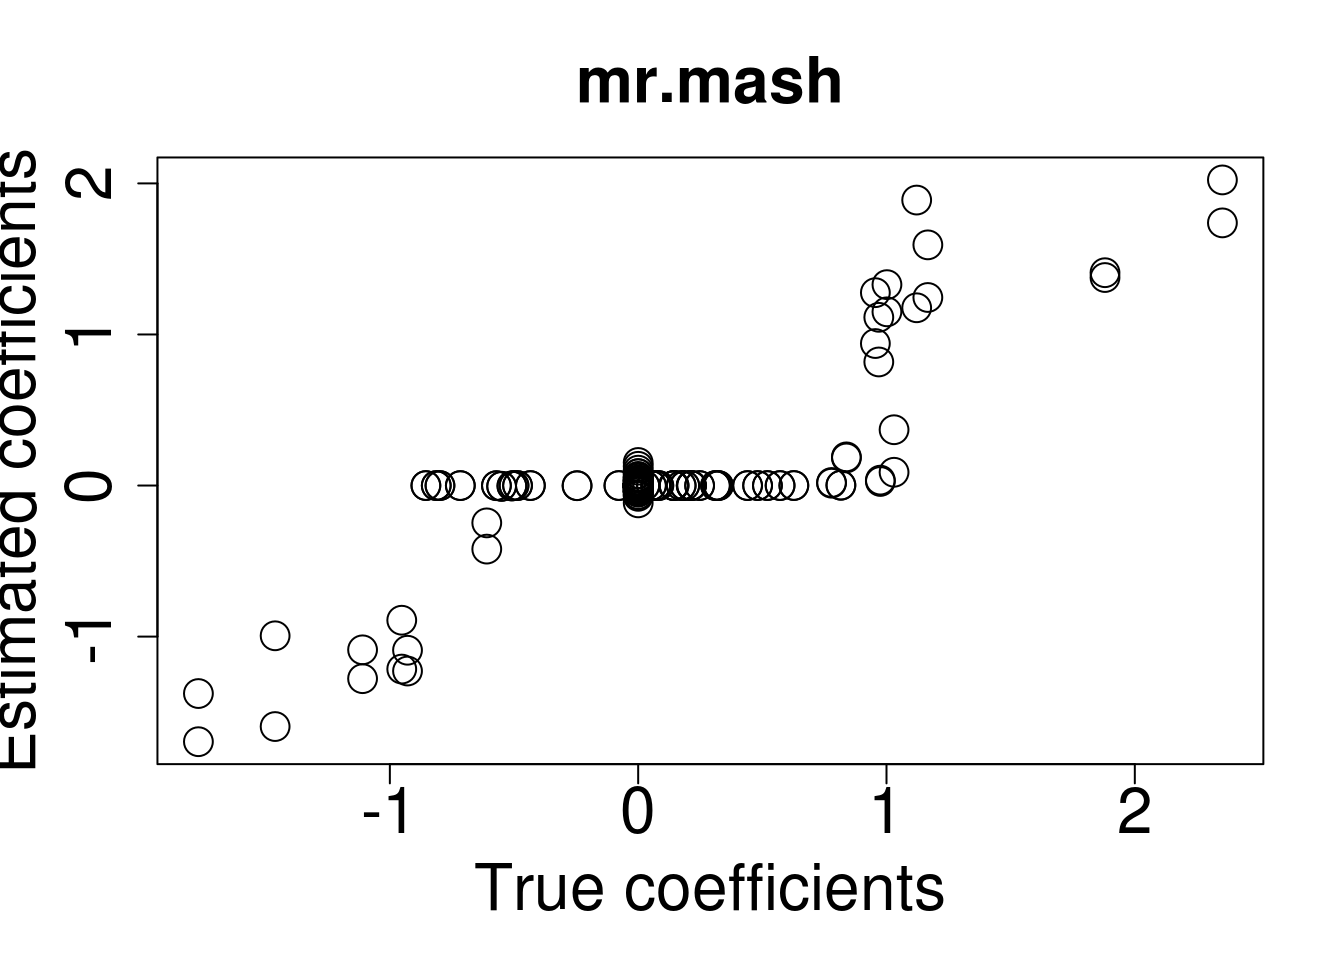
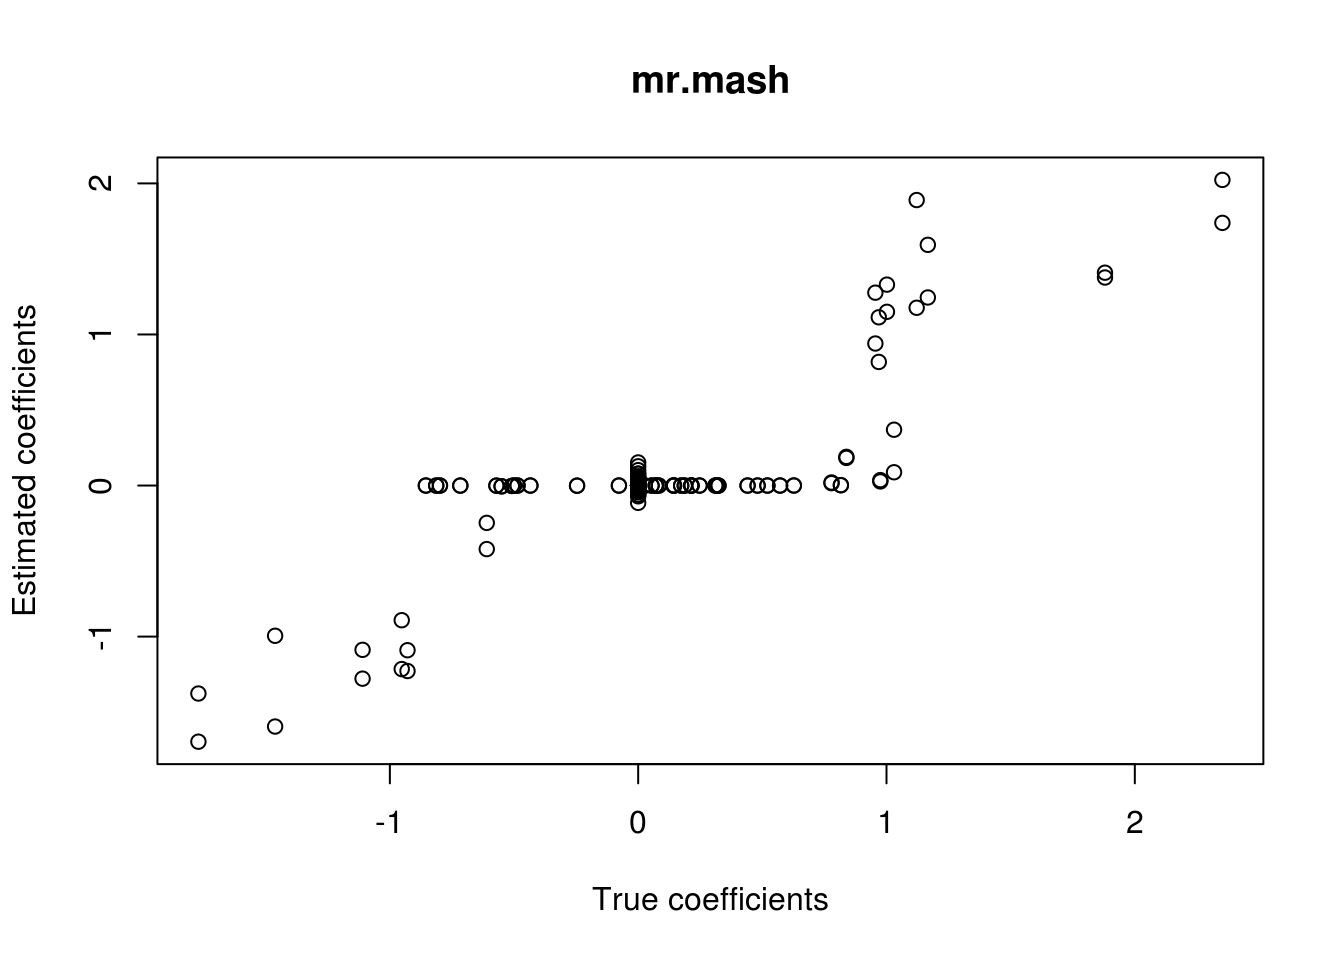
Build site.

diff --git a/docs/two_active_responses_issue.html b/docs/two_active_responses_issue.html
@@ -355,16 +355,16 @@ This reproducible <a href="http://rmarkdown.rstudio.com">R Markdown</a> analysis
 <div class="panel panel-default">
 <div class="panel-heading">
 <p class="panel-title">
-<a data-toggle="collapse" data-parent="#workflowr-checks" href="#strongRepositoryversionstrongahrefhttpsgithubcomfmorgantemrmashtesttree738798c5b85a0ae160ac5c6106e989c5aaf98dbatargetblank738798ca"> <span class="glyphicon glyphicon-ok text-success" aria-hidden="true"></span> <strong>Repository version:</strong> <a href="https://github.com/fmorgante/mr_mash_test/tree/738798c5b85a0ae160ac5c6106e989c5aaf98dba" target="_blank">738798c</a> </a>
+<a data-toggle="collapse" data-parent="#workflowr-checks" href="#strongRepositoryversionstrongahrefhttpsgithubcomfmorgantemrmashtesttree8fde94a88c268ce441309d8c36f8934044e632d3targetblank8fde94aa"> <span class="glyphicon glyphicon-ok text-success" aria-hidden="true"></span> <strong>Repository version:</strong> <a href="https://github.com/fmorgante/mr_mash_test/tree/8fde94a88c268ce441309d8c36f8934044e632d3" target="_blank">8fde94a</a> </a>
 </p>
 </div>
[2 lines of base64/hex data omitted]
 <div class="panel-body">
 <p>
 Great! You are using Git for version control. Tracking code development and connecting the code version to the results is critical for reproducibility.
 </p>
 <p>
-The results in this page were generated with repository version <a href="https://github.com/fmorgante/mr_mash_test/tree/738798c5b85a0ae160ac5c6106e989c5aaf98dba" target="_blank">738798c</a>. See the <em>Past versions</em> tab to see a history of the changes made to the R Markdown and HTML files.
+The results in this page were generated with repository version <a href="https://github.com/fmorgante/mr_mash_test/tree/8fde94a88c268ce441309d8c36f8934044e632d3" target="_blank">8fde94a</a>. See the <em>Past versions</em> tab to see a history of the changes made to the R Markdown and HTML files.
 </p>
 <p>
 Note that you need to be careful to ensure that all relevant files for the analysis have been committed to Git prior to generating the results (you can use <code>wflow_publish</code> or <code>wflow_git_commit</code>). workflowr only checks the R Markdown file, but you know if there are other scripts or data files that it depends on. Below is the status of the Git repository when the results were generated:
@@ -431,6 +431,40 @@ Message
 </tr>
 </thead>
 <tbody>
+<tr>
+<td>
+Rmd
+</td>
+<td>
+<a href="https://github.com/fmorgante/mr_mash_test/blob/8fde94a88c268ce441309d8c36f8934044e632d3/analysis/two_active_responses_issue.Rmd" target="_blank">8fde94a</a>
+</td>
+<td>
+fmorgante
+</td>
+<td>
+2020-05-28
+</td>
+<td>
+Add more investigations
+</td>
+</tr>
+<tr>
+<td>
+html
+</td>
+<td>
+<a href="https://rawcdn.githack.com/fmorgante/mr_mash_test/2682eba3778a01d6424afba475673e6f3cafc4d8/docs/two_active_responses_issue.html" target="_blank">2682eba</a>
+</td>
+<td>
+fmorgante
+</td>
+<td>
+2020-05-28
+</td>
+<td>
+Build site.
+</td>
+</tr>
 <tr>
 <td>
 Rmd
@@ -564,7 +598,7 @@ library(glmnet)</code></pre>
 <pre><code>Loaded glmnet 2.0-16</code></pre>
 <pre class="r"><code>###Set options
 options(stringsAsFactors = FALSE)</code></pre>
-<p>Let’s simulate data with n=600, p=1,000, p_causal=50, r=5, r_causal=2, PVE=0.5, shared effects, independent predictors, and lowly correlated residuals.</p>
+<p>Let’s simulate data with n=600, p=1,000, p_causal=50, r=5, r_causal=2, PVE=0.5, shared effects, independent predictors, and lowly correlated residuals. The models will be fitted to the training data (80% of the full data).</p>
 <pre class="r"><code>###Set seed
 set.seed(123)
 
@@ -618,7 +652,7 @@ fit_mrmash &lt;- mr.mash(Xtrain, Ytrain, S0, update_w0=TRUE, update_w0_method=&q
 <pre><code>Processing the inputs... Done!
 Fitting the optimization algorithm... Done!
 Processing the outputs... Done!
-mr.mash successfully executed in 8.703947 minutes!</code></pre>
+mr.mash successfully executed in 8.694488 minutes!</code></pre>
 <p>Let’s now compare the results.</p>
 <pre class="r"><code>layout(matrix(c(1, 1, 2, 2,
                 1, 1, 2, 2,
@@ -733,7 +767,7 @@ fit_mrmash_updated &lt;- mr.mash(Xtrain, Ytrain, S0_1, update_w0=TRUE, update_w0
 <pre><code>Processing the inputs... Done!
 Fitting the optimization algorithm... Done!
 Processing the outputs... Done!
-mr.mash successfully executed in 5.42335 minutes!</code></pre>
+mr.mash successfully executed in 5.403984 minutes!</code></pre>
 <p>Let’s compare the results again.</p>
 <pre class="r"><code>layout(matrix(c(1, 1, 2, 2,
                 1, 1, 2, 2,
@@ -813,7 +847,7 @@ fmorgante
 </div>
 </div>
 <p>Now the results look much better!</p>
-<p>However, we all thought that the identity matrix (properly scaled) could be able to capture these kinds of effects. So, let’s test this intuition by initializing all the parameters (mu1, V, w0) to the true values and provide a 2-component prior with the zero matrix and an identity scaled by the true variance (i.e., 0.8).</p>
+<p>However, we all thought that the identity matrix (properly scaled) should be able to capture these kinds of effects. So, let’s test this intuition by initializing all the parameters (mu1, V, w0) to the true values (keep in mind that these values are from the full data, but we are fitting the model to the training data), updating them, and providing a 2-component prior with the zero matrix and an identity scaled by the true variance (i.e., 0.8).</p>
 <pre class="r"><code>###Update the mixture prior
 zeromat &lt;- matrix(0, r, r)
 diagmat &lt;- diag(0.8, r)
@@ -826,10 +860,47 @@ fit_mrmash_diag &lt;- mr.mash(Xtrain, Ytrain, S0_2, w0=c((p_causal/p), (1-(p_cau
 <pre><code>Processing the inputs... Done!
 Fitting the optimization algorithm... Done!
 Processing the outputs... Done!
-mr.mash successfully executed in 0.01638254 minutes!</code></pre>
+mr.mash successfully executed in 0.01626393 minutes!</code></pre>
 <pre class="r"><code>###Plot the results
-plot(out$B, fit_mrmash_diag$mu1, main=&quot;mr.mash&quot;, xlab=&quot;True coefficients&quot;, ylab=&quot;Estimated coefficients&quot;, cex=2, cex.lab=2, cex.main=2, cex.axis=2)</code></pre>
+plot(out$B, fit_mrmash_diag$mu1, main=&quot;mr.mash&quot;, xlab=&quot;True coefficients&quot;, ylab=&quot;Estimated coefficients&quot;)</code></pre>
 <p><img src="figure/two_active_responses_issue.Rmd/fit%20mr.mash%20identity%20prior-1.png" width="672" style="display: block; margin: auto;" /></p>
+<p>
+<button type="button" class="btn btn-default btn-xs btn-workflowr btn-workflowr-fig" data-toggle="collapse" data-target="#fig-no-spaces-fit-mr.mash-identity-prior-1">
+Past versions of “fit mr.mash identity prior-1.png”
+</button>
+</p>
+<div id="fig-no-spaces-fit-mr.mash-identity-prior-1" class="collapse">
+<div class="table-responsive">
+<table class="table table-condensed table-hover">
+<thead>
+<tr>
+<th>
+Version
+</th>
+<th>
+Author
+</th>
+<th>
+Date
+</th>
+</tr>
+</thead>
+<tbody>
+<tr>
+<td>
+<a href="https://github.com/fmorgante/mr_mash_test/blob/2682eba3778a01d6424afba475673e6f3cafc4d8/docs/figure/two_active_responses_issue.Rmd/fit mr.mash identity prior-1.png" target="_blank">2682eba</a>
+</td>
+<td>
+fmorgante
+</td>
+<td>
+2020-05-28
+</td>
+</tr>
+</tbody>
+</table>
+</div>
+</div>
 <p>Unfortunately, it does not work well, as we hoped. Let’s now try to fix w0 and V instead of updating them.</p>
 <pre class="r"><code>###Fit mr.mash
 fit_mrmash_diag_fix &lt;- mr.mash(Xtrain, Ytrain, S0_2, w0=c((p_causal/p), (1-(p_causal/p))), V=out$V, 
@@ -839,45 +910,119 @@ fit_mrmash_diag_fix &lt;- mr.mash(Xtrain, Ytrain, S0_2, w0=c((p_causal/p), (1-(p
 <pre><code>Processing the inputs... Done!
 Fitting the optimization algorithm... Done!
 Processing the outputs... Done!
-mr.mash successfully executed in 0.007988842 minutes!</code></pre>
+mr.mash successfully executed in 0.008009799 minutes!</code></pre>
 <pre class="r"><code>###Plot the results
-plot(out$B, fit_mrmash_diag_fix$mu1, main=&quot;mr.mash&quot;, xlab=&quot;True coefficients&quot;, ylab=&quot;Estimated coefficients&quot;, cex=2, cex.lab=2, cex.main=2, cex.axis=2)</code></pre>
+plot(out$B, fit_mrmash_diag_fix$mu1, main=&quot;mr.mash&quot;, xlab=&quot;True coefficients&quot;, ylab=&quot;Estimated coefficients&quot;)</code></pre>
 <p><img src="figure/two_active_responses_issue.Rmd/fit%20mr.mash%20identity%20prior%20fixed-1.png" width="672" style="display: block; margin: auto;" /></p>
-<p>Still not good. Now, we will try to replace the identity matrix with the true covariance among effects, and update all the model parameters.</p>
+<p>
+<button type="button" class="btn btn-default btn-xs btn-workflowr btn-workflowr-fig" data-toggle="collapse" data-target="#fig-no-spaces-fit-mr.mash-identity-prior-fixed-1">
+Past versions of “fit mr.mash identity prior fixed-1.png”
+</button>
+</p>
+<div id="fig-no-spaces-fit-mr.mash-identity-prior-fixed-1" class="collapse">
+<div class="table-responsive">
+<table class="table table-condensed table-hover">
+<thead>
+<tr>
+<th>
+Version
+</th>
+<th>
+Author
+</th>
+<th>
+Date
+</th>
+</tr>
+</thead>
+<tbody>
+<tr>
+<td>
+<a href="https://github.com/fmorgante/mr_mash_test/blob/2682eba3778a01d6424afba475673e6f3cafc4d8/docs/figure/two_active_responses_issue.Rmd/fit mr.mash identity prior fixed-1.png" target="_blank">2682eba</a>
+</td>
+<td>
+fmorgante
+</td>
+<td>
+2020-05-28
+</td>
+</tr>
+</tbody>
+</table>
+</div>
+</div>
+<p>Much better! Now, we will try to update w0 but not V.</p>
+<pre class="r"><code>###Fit mr.mash
+fit_mrmash_diag_fixV &lt;- mr.mash(Xtrain, Ytrain, S0_2, w0=c((p_causal/p), (1-(p_causal/p))), V=out$V, 
+                               mu1_init=out$B, update_w0=TRUE, update_w0_method=&quot;EM&quot;, compute_ELBO=TRUE, 
+                               standardize=TRUE, verbose=FALSE, update_V=FALSE, e=1e-8, 
+                               ca_update_order=&quot;consecutive&quot;)</code></pre>
+<pre><code>Processing the inputs... Done!
+Fitting the optimization algorithm... Done!
+Processing the outputs... Done!
+mr.mash successfully executed in 0.01221145 minutes!</code></pre>
+<pre class="r"><code>###Plot the results
+plot(out$B, fit_mrmash_diag_fixV$mu1, main=&quot;mr.mash&quot;, xlab=&quot;True coefficients&quot;, ylab=&quot;Estimated coefficients&quot;)</code></pre>
+<p><img src="figure/two_active_responses_issue.Rmd/fit%20mr.mash%20identity%20prior%20fixed%20V-1.png" width="672" style="display: block; margin: auto;" /></p>
+<p>In summary, it looks like the problem is the estimation of V when using an identity matrix to capture this kind of structure in the effects.</p>
+<pre class="r"><code>print(&quot;True V (full data)&quot;)</code></pre>
+<pre><code>[1] &quot;True V (full data)&quot;</code></pre>
+<pre class="r"><code>out$V</code></pre>
+<pre><code>           [,1]       [,2]      [,3]      [,4]      [,5]
+[1,] 28.0236872  4.2035531 0.7940611 0.7940611 0.7940611
+[2,]  4.2035531 28.0236872 0.7940611 0.7940611 0.7940611
+[3,]  0.7940611  0.7940611 1.0000000 0.1500000 0.1500000
+[4,]  0.7940611  0.7940611 0.1500000 1.0000000 0.1500000
+[5,]  0.7940611  0.7940611 0.1500000 0.1500000 1.0000000</code></pre>
+<pre class="r"><code>print(&quot;Estimated V from model with the two-component prior with identity (training data)&quot;)</code></pre>
+<pre><code>[1] &quot;Estimated V from model with the two-component prior with identity (training data)&quot;</code></pre>
+<pre class="r"><code>fit_mrmash_diag$V</code></pre>
+<pre><code>           Y1         Y2        Y3         Y4         Y5
+Y1 52.9863309 26.2306701 1.0069978 1.10682903 0.40397689
+Y2 26.2306701 50.0151618 1.2067022 0.86099911 0.93345668
+Y3  1.0069978  1.2067022 1.0283611 0.17562316 0.14786068
+Y4  1.1068290  0.8609991 0.1756232 0.92091472 0.09093236
+Y5  0.4039769  0.9334567 0.1478607 0.09093236 0.97068662</code></pre>
+<p>This is not a problem when including the matrix capturing the true structure in the prior.</p>
 <pre class="r"><code>###Update the mixture prior
 zeromat &lt;- matrix(0, r, r)
-truecovmat &lt;- matrix(c(0.8, 0.8, 0, 0, 0,
-                       0.8, 0.8, 0, 0, 0,
-                       0, 0, 0, 0, 0,
-                       0, 0, 0, 0, 0,
-                       0, 0, 0, 0, 0), 5, 5, byrow=T)
-S0_3 &lt;- list(S0_1=truecovmat, S0_2=zeromat)
+truemat &lt;- matrix(c(0.8, 0.8, 0, 0, 0,
+                     0.8, 0.8, 0, 0, 0,
+                     0, 0, 0, 0, 0,
+                     0, 0, 0, 0, 0,
+                     0, 0, 0, 0, 0), 5, 5, byrow=T)
+
+S0_3 &lt;- list(S0_1=truemat, S0_2=zeromat)
 
 ###Fit mr.mash
-fit_mrmash_truecov &lt;- mr.mash(Xtrain, Ytrain, S0_3, w0=c((p_causal/p), (1-(p_causal/p))), V=out$V, mu1_init=out$B,
+fit_mrmash_truecov &lt;- mr.mash(Xtrain, Ytrain, S0_3, w0=c((p_causal/p), (1-(p_causal/p))), V=out$V, mu1_init=out$B, 
                           update_w0=TRUE, update_w0_method=&quot;EM&quot;, compute_ELBO=TRUE, standardize=TRUE,
                           verbose=FALSE, update_V=TRUE, e=1e-8, ca_update_order=&quot;consecutive&quot;)</code></pre>
 <pre><code>Processing the inputs... Done!
 Fitting the optimization algorithm... Done!
 Processing the outputs... Done!
-mr.mash successfully executed in 0.01350585 minutes!</code></pre>
+mr.mash successfully executed in 0.01346924 minutes!</code></pre>
 <pre class="r"><code>###Plot the results
-plot(out$B, fit_mrmash_truecov$mu1, main=&quot;mr.mash&quot;, xlab=&quot;True coefficients&quot;, ylab=&quot;Estimated coefficients&quot;, cex=2, cex.lab=2, cex.main=2, cex.axis=2)</code></pre>
-<p><img src="figure/two_active_responses_issue.Rmd/fit%20mr.mash%20true%20prior-1.png" width="672" style="display: block; margin: auto;" /></p>
-<p>Now it works well. Finally, let’s try not to update the model parameters.</p>
-<pre class="r"><code>###Fit mr.mash
-fit_mrmash_truecov_fix &lt;- mr.mash(Xtrain, Ytrain, S0_3, w0=c((p_causal/p), (1-(p_causal/p))), V=out$V, 
-                                  mu1_init=out$B, update_w0=FALSE, update_w0_method=&quot;EM&quot;, compute_ELBO=TRUE, 
-                                  standardize=TRUE, verbose=FALSE, update_V=FALSE, e=1e-8, 
-                                  ca_update_order=&quot;consecutive&quot;)</code></pre>
-<pre><code>Processing the inputs... Done!
-Fitting the optimization algorithm... Done!
-Processing the outputs... Done!
-mr.mash successfully executed in 0.01819323 minutes!</code></pre>
-<pre class="r"><code>###Plot the results
-plot(out$B, fit_mrmash_truecov_fix$mu1, main=&quot;mr.mash&quot;, xlab=&quot;True coefficients&quot;, ylab=&quot;Estimated coefficients&quot;, cex=2, cex.lab=2, cex.main=2, cex.axis=2)</code></pre>
-<p><img src="figure/two_active_responses_issue.Rmd/fit%20mr.mash%20true%20prior%20fixed-1.png" width="672" style="display: block; margin: auto;" /></p>
-<p>In summary, it looks like we need the proper prior to capture that kind of structure.</p>
+plot(out$B, fit_mrmash_truecov$mu1, main=&quot;mr.mash&quot;, xlab=&quot;True coefficients&quot;, ylab=&quot;Estimated coefficients&quot;)</code></pre>
+<p><img src="figure/two_active_responses_issue.Rmd/fit%20mr.mash%20truecov%20prior-1.png" width="672" style="display: block; margin: auto;" /></p>
+<pre class="r"><code>print(&quot;True V (full data)&quot;)</code></pre>
+<pre><code>[1] &quot;True V (full data)&quot;</code></pre>
+<pre class="r"><code>out$V</code></pre>
+<pre><code>           [,1]       [,2]      [,3]      [,4]      [,5]
+[1,] 28.0236872  4.2035531 0.7940611 0.7940611 0.7940611
+[2,]  4.2035531 28.0236872 0.7940611 0.7940611 0.7940611
+[3,]  0.7940611  0.7940611 1.0000000 0.1500000 0.1500000
+[4,]  0.7940611  0.7940611 0.1500000 1.0000000 0.1500000
+[5,]  0.7940611  0.7940611 0.1500000 0.1500000 1.0000000</code></pre>
+<pre class="r"><code>print(&quot;Estimated V from model with the two-component prior with true effect covariance (training data)&quot;)</code></pre>
+<pre><code>[1] &quot;Estimated V from model with the two-component prior with true effect covariance (training data)&quot;</code></pre>
+<pre class="r"><code>fit_mrmash_truecov$V</code></pre>
+<pre><code>           Y1         Y2        Y3         Y4         Y5
+Y1 33.0166995  6.7316366 0.7167243 0.99586720 0.23698598
+Y2  6.7316366 31.2216559 0.9371137 0.78008007 0.80928387
+Y3  0.7167243  0.9371137 1.0266380 0.17635318 0.15357665
+Y4  0.9958672  0.7800801 0.1763532 0.91962359 0.09344052
+Y5  0.2369860  0.8092839 0.1535766 0.09344052 0.98858591</code></pre>
 <br>
 <p>
 <button type="button" class="btn btn-default btn-workflowr btn-workflowr-sessioninfo" data-toggle="collapse" data-target="#workflowr-sessioninfo" style="display: block;">
